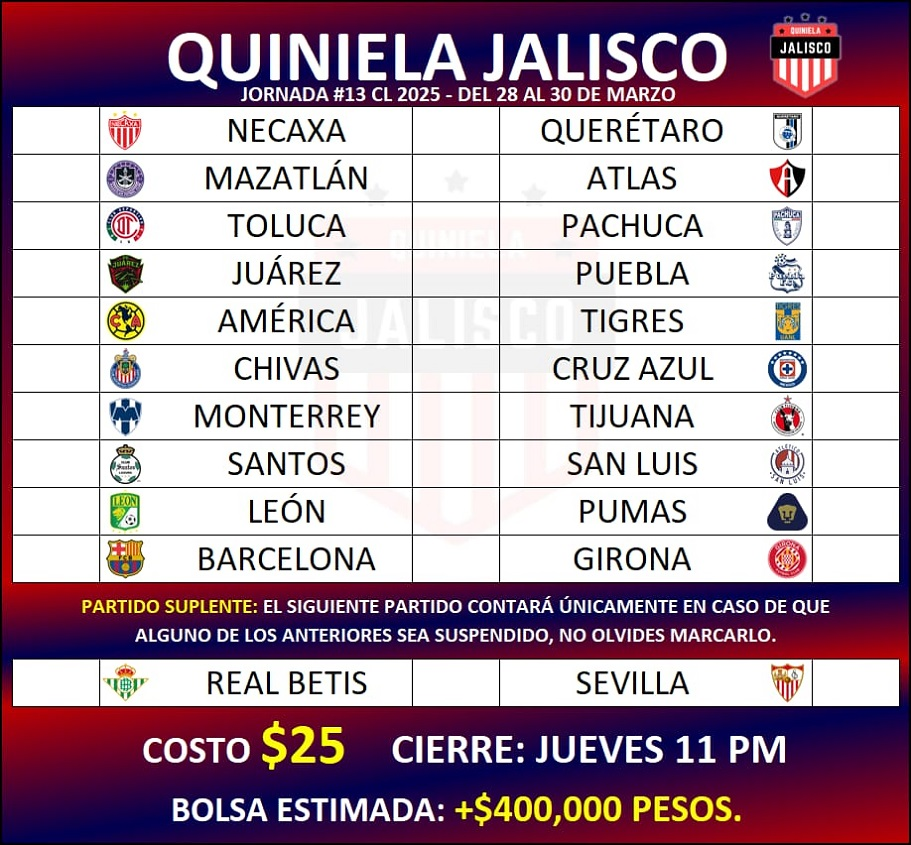
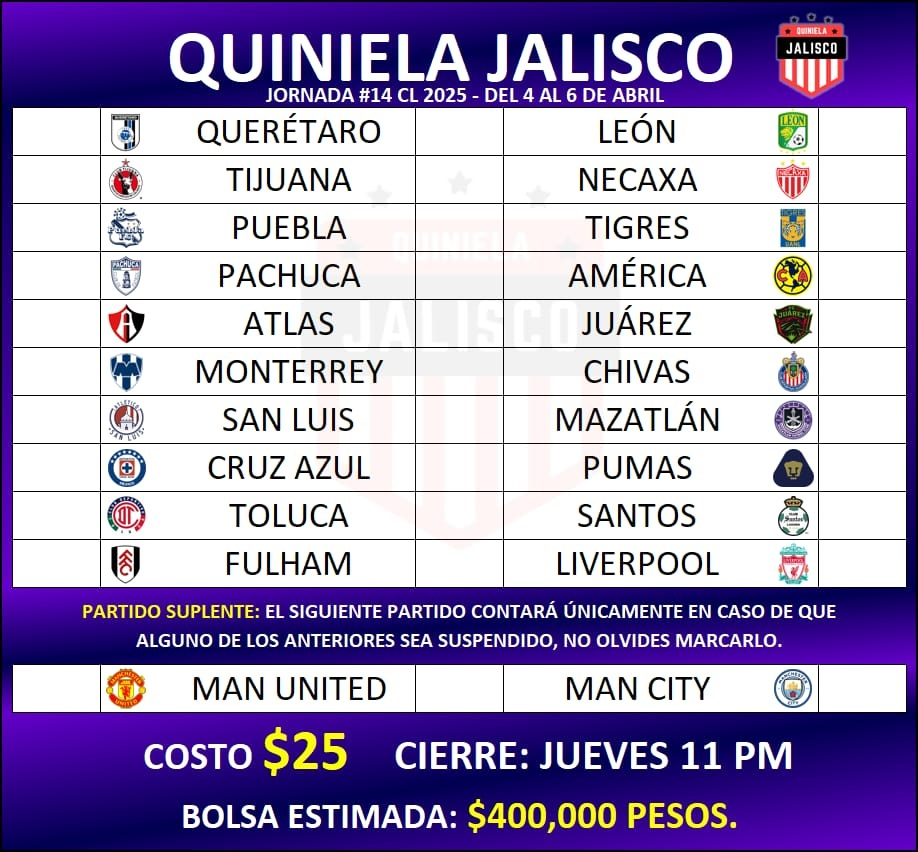
Jornada 14 C25

diff --git a/11/styles11.css b/11/styles11.css
@@ -95,8 +95,8 @@ body{
     margin-top: 8.5%;
     border-top: solid 1px black;
     border-radius: 0 0 14px 14px;
-    background: -webkit-linear-gradient(0.49turn, rgb(114 0 33) -7%, rgb(0 4 86) 80%);
-    background: linear-gradient(0.49turn, rgb(114 0 33) -7%, rgb(0 4 86) 80%);
+    background: -webkit-linear-gradient(0.49turn, rgb(57 0 150) -7%, rgb(0 4 86) 80%);
+    background: linear-gradient(0.49turn, rgb(57 0 150) -7%, rgb(0 4 86) 80%);
 }
 
 .text-lg{
@@ -293,7 +293,7 @@ h6{
 }
 
 #cantidad:before{
-    content:'+$400,000 pesos';
+    content:'$400,000 pesos';
     color: yellow;
     white-space:pre;
 }
